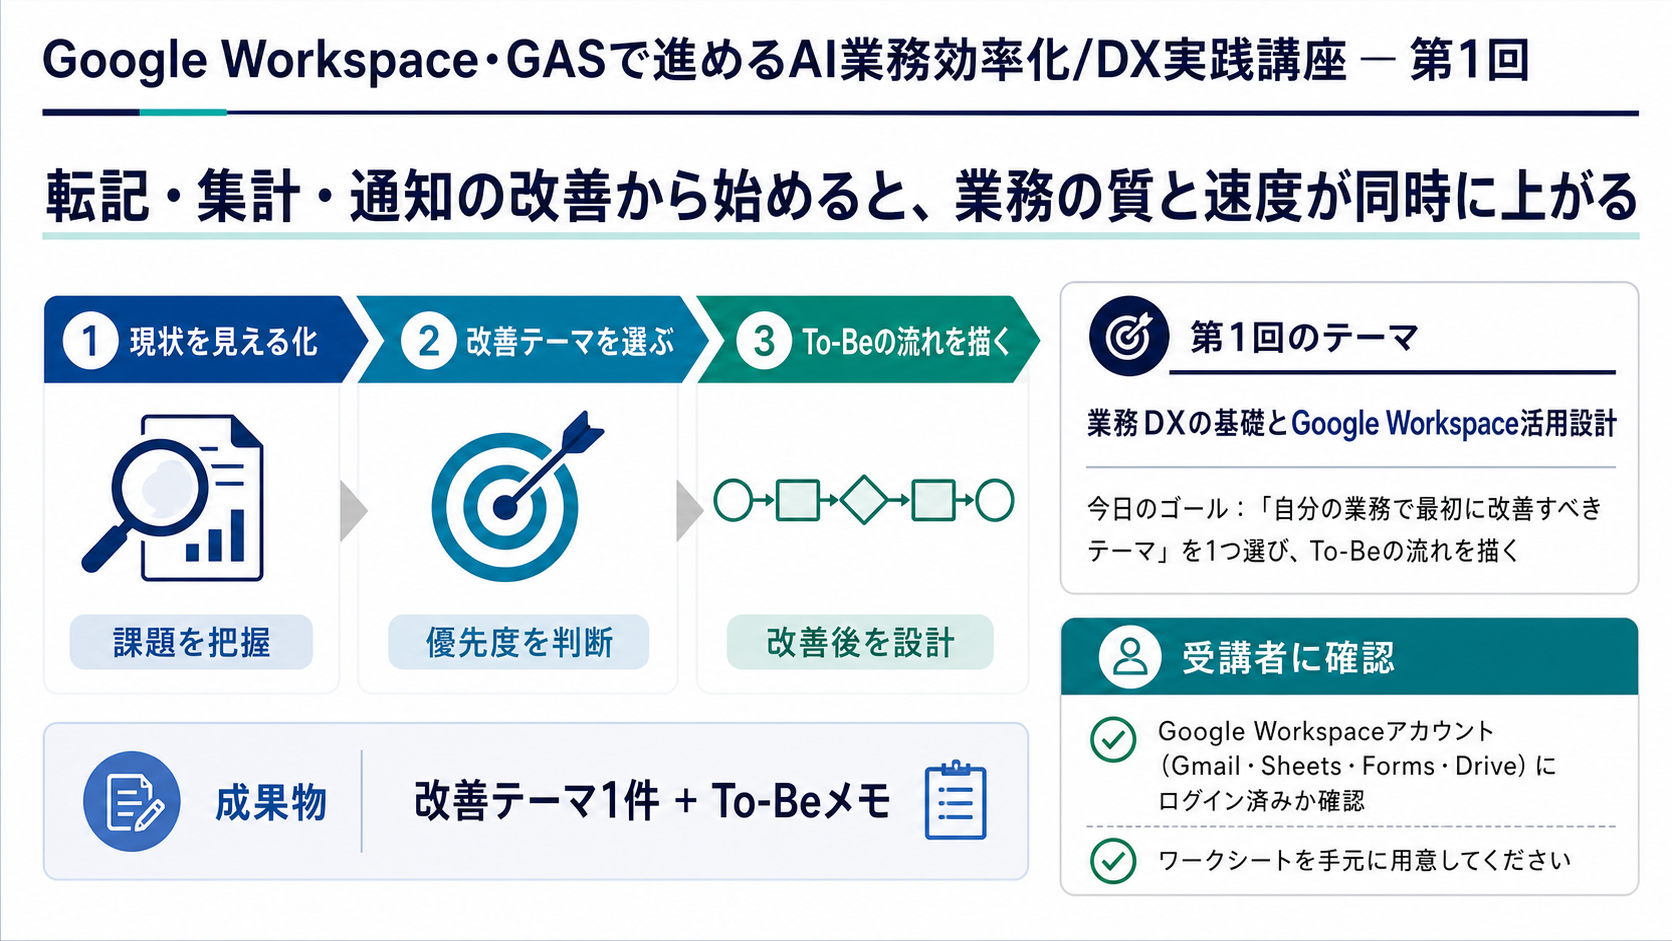
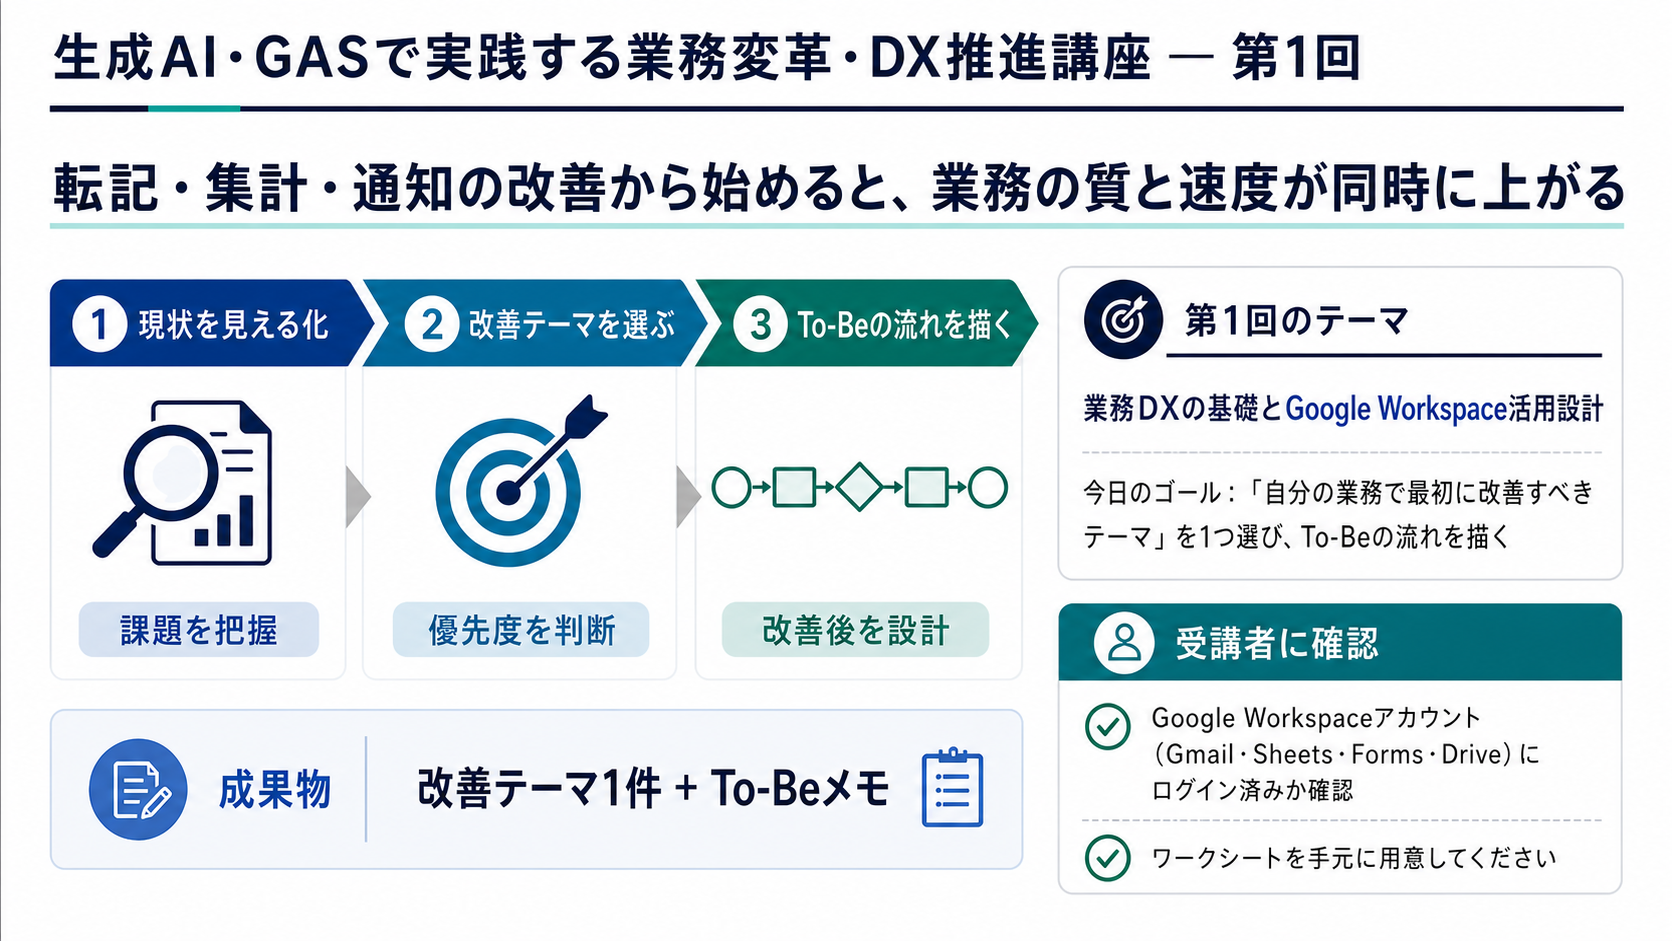
研修名とDrive置換手順を直す
Google Workspace講座のS01をimage 2生成画像に差し替えた。
クライアント指示コンテキストを追加し、参照と検証の流れをルール化した。
Google Slidesを同じDriveフォルダで置換し、リンク一覧を更新した。
エクスポータが講座表示名をリンク一覧へ残すようにした。

diff --git a/prompt-timeline/assets/events.js b/prompt-timeline/assets/events.js
@@ -342,5 +342,45 @@ window.PROMPT_TIMELINE_EVENTS = [
     "tags": [],
     "timestamp": "2026-06-11T18:38:41.829504Z",
     "timestamp_jst": "2026-06-12T03:38:41+09:00"
+  },
+  {
+    "actions": [],
+    "actor": "agent",
+    "id": "20260612T045141Z-a8192a98",
+    "kind": "prompt",
+    "meta": {
+      "cwd": "/Users/deguchishouma/Desktop/AI法人研修",
+      "hook_event_name": "UserPromptSubmit",
+      "session_id": "019eb7c1-fd8f-7ea1-964a-e45bf4ce92e8",
+      "transcript_path": "/Users/deguchishouma/.codex/sessions/2026/06/12/rollout-2026-06-12T02-36-44-019eb7c1-fd8f-7ea1-964a-e45bf4ce92e8.jsonl"
+    },
+    "parent_id": "",
+    "prompt_original": "[Image #1]@Sho \nお待たせしました！\n第6回まで拝見しました！\n1点だけ、研修名について、パンフレットが「生成AI・GASで実践する業務変革・DX推進講座」になっているのに対し、スライドでは「Google Workspace・GASで進めるAI業務効率化/DX実践講座」になっています。\nパンフレットに合わせるのが良いと思いますので、スライドの研修名を変えてください！こうやって言われている。googleスライドの1枚目とかをしっかり変更して欲しい。以前も依頼したから変わってるなら変更できていない過去のものとかはややこしいからドライブからも削除しておいて欲しい。",
+    "prompt_preview": "[Image #1]@Sho \nお待たせしました！\n第6回まで拝見しました！\n1点だけ、研修名について、パンフレットが「生成AI・GASで実践する業務変革・DX推進講座」になっているのに対し、スライドでは「Google Workspace・GASで進めるAI業務効率化/DX実践講座」になっています。\nパンフレットに合わせるのが良いと思いますので、スライドの研修名を変えてください！こうやって言われている。googleスライドの1枚目とかをしっかり変更して欲しい。以前も依頼したから変わってるなら変更できていない過去のものとかはややこしいからドライブからも削除しておいて欲しい。",
+    "source": "codex-user-prompt",
+    "summary": "",
+    "tags": [],
+    "timestamp": "2026-06-12T04:51:41.510018Z",
+    "timestamp_jst": "2026-06-12T13:51:41+09:00"
+  },
+  {
+    "actions": [],
+    "actor": "agent",
+    "id": "20260612T045554Z-82d6782c",
+    "kind": "prompt",
+    "meta": {
+      "cwd": "/Users/deguchishouma/Desktop/AI法人研修",
+      "hook_event_name": "UserPromptSubmit",
+      "session_id": "019eb7c1-fd8f-7ea1-964a-e45bf4ce92e8",
+      "transcript_path": "/Users/deguchishouma/.codex/sessions/2026/06/12/rollout-2026-06-12T02-36-44-019eb7c1-fd8f-7ea1-964a-e45bf4ce92e8.jsonl"
+    },
+    "parent_id": "",
+    "prompt_original": "ヘッダーを重ねるとかじゃなくて、デザインそのままで研修名だけ買えてちゃんとimage2で画像生成してください。あと、クライアントからの指示を格納していくコンテキストファイルが欲しい。それを必ず参照し、検証する的な形をとって行きたい。",
+    "prompt_preview": "ヘッダーを重ねるとかじゃなくて、デザインそのままで研修名だけ買えてちゃんとimage2で画像生成してください。あと、クライアントからの指示を格納していくコンテキストファイルが欲しい。それを必ず参照し、検証する的な形をとって行きたい。",
+    "source": "codex-user-prompt",
+    "summary": "",
+    "tags": [],
+    "timestamp": "2026-06-12T04:55:54.746780Z",
+    "timestamp_jst": "2026-06-12T13:55:54+09:00"
   }
 ];

diff --git a/skills/gws-ai-training-slide-exporter/scripts/export_ai_training_slides_to_gws.py b/skills/gws-ai-training-slide-exporter/scripts/export_ai_training_slides_to_gws.py
@@ -644,6 +644,28 @@ def link_index_target(args: argparse.Namespace) -> Path:
     return path if path.is_absolute() else Path.cwd() / path
 
 
+def normalize_public_title(raw_title: str) -> str:
+    title = raw_title.strip()
+    title = re.sub(r"^#+\s*", "", title)
+    return title.strip().rstrip("。")
+
+
+def public_course_display_name(out_path: Path, fallback: str) -> str:
+    course_dir = out_path.parent.parent if out_path.parent.name == "全体" else out_path.parent
+    candidates = [
+        course_dir / "全体" / "詳細シラバス.md",
+        course_dir / "全体" / "講座概要.md",
+    ]
+    for path in candidates:
+        if not path.exists():
+            continue
+        for line in path.read_text(encoding="utf-8").splitlines():
+            title = normalize_public_title(line)
+            if title and not title.startswith("講座概要") and not title.startswith("タイトルと一言訴求"):
+                return title
+    return normalize_public_title(fallback)
+
+
 def write_link_index(results: list[dict[str, Any]], out_path: Path) -> None:
     if not results:
         raise ExportError("No export results available for link index.")
@@ -653,14 +675,16 @@ def write_link_index(results: list[dict[str, Any]], out_path: Path) -> None:
     course_folder = first.get("courseFolder", {})
     root_name = root_folder.get("name", "Drive root")
     course_name = course_folder.get("name", "Course folder")
+    display_name = public_course_display_name(out_path, str(course_name))
     generated_at = dt.datetime.now().astimezone().strftime("%Y-%m-%d %H:%M:%S %Z")
 
     lines = [
         "# Google Drive / Google Slides リンク一覧",
         "",
         f"- 生成日時: {generated_at}",
+        f"- 講座表示名: {markdown_cell(display_name)}",
         f"- Driveルート: {markdown_link(str(root_name), drive_folder_url(root_folder))}",
-        f"- 講座フォルダ: {markdown_link(str(course_name), drive_folder_url(course_folder))}",
+        f"- 講座フォルダ: {markdown_link('講座フォルダ', drive_folder_url(course_folder))}",
         "- 詳細な置換レポートやDrive APIレスポンスは `非公開/` に保存し、この一覧には共有に必要なリンクだけを残す。",
         "",
         "| 回 | セッション | Driveフォルダ | Google Slides | スライド数 | 置換数 | 警告 |",

diff --git a/クライアント指示コンテキスト.md b/クライアント指示コンテキスト.md
@@ -1,0 +1,45 @@
+# クライアント指示コンテキスト
+
+このファイルは、クライアント・レビュー担当者からの指示、修正意図、検証観点を蓄積する正本です。研修資料、パンフレット、スライド、画像生成プロンプト、スライド画像、Google Slides/Drive書き出しを作業する前に必ず確認し、完了前に該当指示への適合を検証する。
+
+## 運用ルール
+
+- 新しいクライアント指示やレビュー指摘を受けたら、対象講座、日付、指示内容、禁止される対応、検証方法をこのファイルへ追記する。
+- 指示は作業メモではなく、次回以降も再利用できる判断基準として書く。
+- 個人情報、社内連絡先、価格、契約条件、未公開資料の原文は入れない。公開可能な範囲で要約する。
+- `AGENTS.md`、対象スキル、対象講座の正本資料と合わせて読む。矛盾がある場合は、最新のクライアント指示と提出用パンフレット/提出済み資料を優先し、差分を記録する。
+- 完了前に、対象ファイル、生成画像、Google Slides/Drive上の成果物を見て、このファイルの検証項目を満たすか確認する。
+
+## 2026-06-12 Google Workspace/GAS講座 研修名修正
+
+対象講座:
+
+- `講座/Google Workspace・GASで進めるAI業務効率化-DX実践講座/`
+
+クライアント指示:
+
+- パンフレットの研修名 `生成AI・GASで実践する業務変革・DX推進講座` に、スライド上の研修名を合わせる。
+- 旧表記 `Google Workspace・GASで進めるAI業務効率化/DX実践講座` や `Google Workspace・GASで進めるAI業務効率化-DX実践講座` が、受講者・審査者に見えるスライド画像やGoogle Slides上に残らないようにする。
+- 変更できていない過去のGoogle SlidesやDrive上の重複物は、同じ回フォルダ内に残さない。
+
+禁止される対応:
+
+- 既存PNGの上に白帯、ヘッダー、文字、図形を後載せして直さない。
+- Google Slides上にテキストボックスや図形を重ねて、旧研修名を隠すだけの対応をしない。
+- SVG、HTML/CSS、canvas、PIL/Pillow、ImageMagick、ブラウザスクリーンショット、PDF/PPTX書き出し、ローカル合成で完成 `スライド画像/Sxx.png` を作らない。
+
+必須対応:
+
+- 旧研修名が見えている `スライド画像/Sxx.png` は、GPT image 2 / built-in `image_gen` で1枚まるごとの完成ラスター画像として再生成する。
+- デザインは既存スライドの `isometric-corporate-clean` の見た目に寄せ、原則として研修名だけを正しい表記へ変更する。
+- 再生成後は、ローカル画像を目視し、旧研修名、文字化け、余計なタイトル、重なり、情報量低下がないことを確認する。
+- Google Slidesは、再生成済み画像から同じDriveルート/講座フォルダ/回フォルダへ作り直し、同名の旧Google Slidesを削除して置き換える。
+- Drive上の各回フォルダに、対象回のGoogle Slidesが1本だけ残っていることを確認する。
+
+検証:
+
+- ローカル検索で旧研修名の可視テキスト候補を確認する。
+- 代表画像を目視し、タイトルが `生成AI・GASで実践する業務変革・DX推進講座` になっていることを確認する。
+- `gws drive files list` で各回フォルダ内のGoogle Slides件数が1件であることを確認する。
+- `gws slides presentations get` で各Google Slidesのページ数がローカル `スライド画像/Sxx.png` 枚数と一致することを確認する。
+- 共有用リンク一覧を作る場合は `講座/.../全体/Google_Driveリンク一覧.md` を更新し、詳細な置換レポートは `非公開/` に保存する。

diff --git a/講座/Google Workspace・GASで進めるAI業務効率化-DX実践講座/全体/Google_Driveリンク一覧.md b/講座/Google Workspace・GASで進めるAI業務効率化-DX実践講座/全体/Google_Driveリンク一覧.md
@@ -1,16 +1,16 @@
 # Google Drive / Google Slides リンク一覧
 
-- 生成日時: 2026-06-12 03:35:06 JST
+- 生成日時: 2026-06-12 14:15:05 JST
 - 講座表示名: 生成AI・GASで実践する業務変革・DX推進講座
 - Driveルート: [AI法人研修](https://drive.google.com/drive/folders/1jaaj-bVBqOvkpS0Gat21ejFjXzTxj3Ez)
-- 講座フォルダ: [Google Workspace・GASで進めるAI業務効率化-DX実践講座](https://drive.google.com/drive/folders/1qMjpDao-nNdAExj10ZFORD9NAsKPOQT6)
+- 講座フォルダ: [講座フォルダ](https://drive.google.com/drive/folders/1qMjpDao-nNdAExj10ZFORD9NAsKPOQT6)
 - 詳細な置換レポートやDrive APIレスポンスは `非公開/` に保存し、この一覧には共有に必要なリンクだけを残す。
 
 | 回 | セッション | Driveフォルダ | Google Slides | スライド数 | 置換数 | 警告 |
 | --- | --- | --- | --- | ---: | ---: | --- |
-| 01 | 01-業務DXの基礎とGoogle Workspace活用設計 | [回フォルダ](https://drive.google.com/drive/folders/1KRXctTEnXGNLErRhkyCBjM7G4uo6eARH) | [01-業務DXの基礎とGoogle Workspace活用設計](https://docs.google.com/presentation/d/1H_n2koR9Ws1YqfGpUkxZ9oSa53Qdow-kzZryBOYp1Bo/edit?usp=drivesdk) | 43 | 1 | なし |
-| 02 | 02-業務データ基盤の設計 | [回フォルダ](https://drive.google.com/drive/folders/1e8iM3Nscca1wNhsvREdd60hJJ_j8Bv3O) | [02-業務データ基盤の設計](https://docs.google.com/presentation/d/1PWIG7wQgtzZ9qfiq91lusaCUyZ5Y712OCvtT0xgok28/edit?usp=drivesdk) | 40 | 1 | なし |
-| 03 | 03-GASによる業務プロセス自動化 | [回フォルダ](https://drive.google.com/drive/folders/1GRxpm9TrQzV6eDzymq_zD0mJ7nTdYTzu) | [03-GASによる業務プロセス自動化](https://docs.google.com/presentation/d/1YBNR2Yh3q73lOU7Z_vl7n3qau4e9SDYyvnrchaD8vcY/edit?usp=drivesdk) | 44 | 1 | なし |
-| 04 | 04-Gem-Geminiを使った文書作成-分類-要約 | [回フォルダ](https://drive.google.com/drive/folders/1R9G06XWiA4m14O1cJgHhNTj-SUAT_Zqa) | [04-Gem-Geminiを使った文書作成-分類-要約](https://docs.google.com/presentation/d/1PoqkHmiHeQtHmvoAWkTBTQNSwXOgWDMMVSnHnLM8Cbc/edit?usp=drivesdk) | 40 | 1 | なし |
-| 05 | 05-AI-GAS自動化の要件定義-運用設計 | [回フォルダ](https://drive.google.com/drive/folders/1awxjo6B2laochT-BswEZ3MuvpkfToBdT) | [05-AI-GAS自動化の要件定義-運用設計](https://docs.google.com/presentation/d/1qYZ7n1OcmK7Ckjqxoo5YG7NNCkAB1JXgnC7nvjThQEI/edit?usp=drivesdk) | 40 | 1 | なし |
-| 06 | 06-AI業務効率化プロジェクト提案書の作成 | [回フォルダ](https://drive.google.com/drive/folders/11vCEnIboC4C9qtc3WIw6mrpQqYMLqXnJ) | [06-AI業務効率化プロジェクト提案書の作成](https://docs.google.com/presentation/d/1FLkY4hSJyZhrlIwbolj-CLw2PFOwm5DEjucyOI0-A3E/edit?usp=drivesdk) | 40 | 1 | なし |
+| 01 | 01-業務DXの基礎とGoogle Workspace活用設計 | [回フォルダ](https://drive.google.com/drive/folders/1KRXctTEnXGNLErRhkyCBjM7G4uo6eARH) | [01-業務DXの基礎とGoogle Workspace活用設計](https://docs.google.com/presentation/d/1HvRE6xc78HFC9QSsMWqOs0BkhkXdo-ft6wQPgZOHiTI/edit?usp=drivesdk) | 43 | 1 | なし |
+| 02 | 02-業務データ基盤の設計 | [回フォルダ](https://drive.google.com/drive/folders/1e8iM3Nscca1wNhsvREdd60hJJ_j8Bv3O) | [02-業務データ基盤の設計](https://docs.google.com/presentation/d/1RfJSRQgt8ggH1LczQE4nApDkEcnHwOGGI_i3DZaule8/edit?usp=drivesdk) | 40 | 1 | なし |
+| 03 | 03-GASによる業務プロセス自動化 | [回フォルダ](https://drive.google.com/drive/folders/1GRxpm9TrQzV6eDzymq_zD0mJ7nTdYTzu) | [03-GASによる業務プロセス自動化](https://docs.google.com/presentation/d/1cwYjyfJ9FzAUhr7fMfbaQ-sSz-ZY5Lb8BSM7XpB2FI8/edit?usp=drivesdk) | 44 | 1 | なし |
+| 04 | 04-Gem-Geminiを使った文書作成-分類-要約 | [回フォルダ](https://drive.google.com/drive/folders/1R9G06XWiA4m14O1cJgHhNTj-SUAT_Zqa) | [04-Gem-Geminiを使った文書作成-分類-要約](https://docs.google.com/presentation/d/1tnMjN4h6lfNyZIc3RKa8hAddsYd41IgCsYWQ4w3FE4U/edit?usp=drivesdk) | 40 | 1 | なし |
+| 05 | 05-AI-GAS自動化の要件定義-運用設計 | [回フォルダ](https://drive.google.com/drive/folders/1awxjo6B2laochT-BswEZ3MuvpkfToBdT) | [05-AI-GAS自動化の要件定義-運用設計](https://docs.google.com/presentation/d/1ZMhi7CMfqPFY5SG81QTcTKj-A6mrVt-pGLJvmHNhTtY/edit?usp=drivesdk) | 40 | 1 | なし |
+| 06 | 06-AI業務効率化プロジェクト提案書の作成 | [回フォルダ](https://drive.google.com/drive/folders/11vCEnIboC4C9qtc3WIw6mrpQqYMLqXnJ) | [06-AI業務効率化プロジェクト提案書の作成](https://docs.google.com/presentation/d/1OqHj6iEYoOY6Q8SE7kK3qLaoLNsGOEeqWYtqX1kO55E/edit?usp=drivesdk) | 40 | 1 | なし |

diff --git a/講座/Google Workspace・GASで進めるAI業務効率化-DX実践講座/06-AI業務効率化プロジェクト提案書の作成/講師台本.md b/講座/Google Workspace・GASで進めるAI業務効率化-DX実践講座/06-AI業務効率化プロジェクト提案書の作成/講師台本.md
@@ -63,7 +63,7 @@
 S01「第6回 AI業務効率化プロジェクト提案書の作成」
 
 読み上げ:
-「みなさん、こんにちは。Google Workspace・GASで進めるAI業務効率化・DX実践講座、第6回へようこそ。」
+「みなさん、こんにちは。生成AI・GASで実践する業務変革・DX推進講座、第6回へようこそ。」
 
 「この講座もいよいよ最終回になりました。第1回から第5回まで、一つひとつの技術とツールを積み上げてきました。今日は、その集大成です。」
 
@@ -695,7 +695,7 @@ S36「講座後の次アクション」
 
 「四つ目は、ログとKPIを月次で確認することです。処理ログの成功/失敗を集計して自動化処理成功率を確認します。受付台帳の処理時間を記録して問い合わせ一次整理時間を測定します。KPI効果試算サンプルの測定方法欄に沿って記録を始めることで、定着改善フェーズが動き出します。改善点は発表レビュー観点のファイルの改善メモ欄に書き足していきましょう。」
 
-「以上で、Google Workspace・GASで進めるAI業務効率化・DX実践講座、全6回が終了です。問い合わせフォーム回答サンプルに始まり、台帳列定義・GAS処理台帳・Meet文字起こし・AI出力レビュー・運用リスクチェックを経て、今日の提案書材料プロトタイプ一覧へとつながる一連の演習データは、そのまま現場の最初の相談資料として使えます。ワークシートに残った提案書骨子を持ち帰ってください。おつかれさまでした。」
+「以上で、生成AI・GASで実践する業務変革・DX推進講座、全6回が終了です。問い合わせフォーム回答サンプルに始まり、台帳列定義・GAS処理台帳・Meet文字起こし・AI出力レビュー・運用リスクチェックを経て、今日の提案書材料プロトタイプ一覧へとつながる一連の演習データは、そのまま現場の最初の相談資料として使えます。ワークシートに残った提案書骨子を持ち帰ってください。おつかれさまでした。」
 
 スライド切替:
 S37「全6回の成果物をつなぐ」

diff --git a/skills/corporate-training-course-builder/SKILL.md b/skills/corporate-training-course-builder/SKILL.md
@@ -11,6 +11,8 @@ Create complete, session-level corporate training materials that are ready for d
 
 This skill is the course-production orchestrator. Use it for any corporate training course, not only Google Workspace/GAS. Apply the repository's `AGENTS.md` first when present.
 
+Before editing or generating any client-facing course artifact, read the repository-level `クライアント指示コンテキスト.md` when it exists. Treat it as the accumulated client-review context, and verify applicable entries before delivery.
+
 ## Unified Course Workflow
 
 Use this skill as the single production entrypoint for course creation. Other local course-related skills are downstream helpers, not competing workflows.

diff --git a/skills/gws-ai-training-slide-exporter/SKILL.md b/skills/gws-ai-training-slide-exporter/SKILL.md
@@ -11,6 +11,8 @@ Publish local AI法人研修 session assets to Google Drive as structured course
 
 This is a downstream export skill. If the user asks to create, rebuild, revise, or regenerate a course/session, first use `skills/corporate-training-course-builder/SKILL.md`. Return to this skill only after local course materials and `スライド画像/Sxx.png` are complete.
 
+Before export or replacement, read `クライアント指示コンテキスト.md` when it exists and verify any relevant Drive/Slides instructions, especially naming, replacement, duplicate deletion, and public/private link handling.
+
 Do not define course content, curriculum standards, slide-image rules, or Canva policy independently here. Those live in `skills/corporate-training-course-builder/SKILL.md` and its references. This skill only executes the delivery phase selected by that workflow.
 
 This skill is for repository sessions that contain:

diff --git a/AGENTS.md b/AGENTS.md
@@ -6,6 +6,7 @@
 
 - このリポジトリ専用のスキルは、リポジトリ直下の `skills/` を正とする。グローバルの `~/.codex/skills/` や各ツール固有の外部スキルより、この直下のスキルを優先して参照する。
 - Codex、Claude Code、その他のエージェントは、作業前にこの `AGENTS.md` を読み、依頼内容に合う `skills/*/SKILL.md` がある場合は、そのスキルを読んでから作業する。
+- クライアント・レビュー担当者からの指示は、リポジトリ直下の `クライアント指示コンテキスト.md` を正本として蓄積する。研修資料、パンフレット、スライド、画像生成プロンプト、スライド画像、Google Slides/Drive書き出しを作る・直す前に必ず同ファイルを読み、完了前に該当する検証項目を満たしたか確認する。
 - 「講座作成」「講座を作成してください」「研修資料を作って」のような一言依頼では、必ず `skills/corporate-training-course-builder/SKILL.md` を唯一の入口として参照し、同スキルの一気通貫ワークフローに従う。研修資料、講師台本、スライド構成、画像生成プロンプト、スライド画像、配布資料、ワークシート、演習データを作る・直す場合も同じ入口を使う。
 - `skills/gws-ai-training-slide-exporter/` や `skills/codex-dynamic-workflows/` は、講座作成スキルから呼び出す下流ヘルパーとして扱う。ユーザーが書き出しだけ、Drive/Slides/Canva連携だけ、またはワークフロー調整だけを明示した場合を除き、これらを講座作成の入口にしない。
 - スライド画像が更新され、既存のGoogle Slidesを差し替える場合は、同じDriveルート/講座フォルダ/回フォルダを使い、`skills/gws-ai-training-slide-exporter/scripts/export_ai_training_slides_to_gws.py --replace-existing-decks` で対象回フォルダ内の同名Google Slidesだけを削除してから新規作成する。DriveのID・URL・置換レポートは原則 `非公開/` に保存する。ユーザーが共有用リンク一覧を明示した場合は、`--write-link-index` で `講座名/全体/Google_Driveリンク一覧.md` を作成・更新し、Google SlidesとDriveフォルダのリンクを一覧化する。詳細なAPIレスポンスや置換レポートJSONは引き続き `非公開/` に置く。